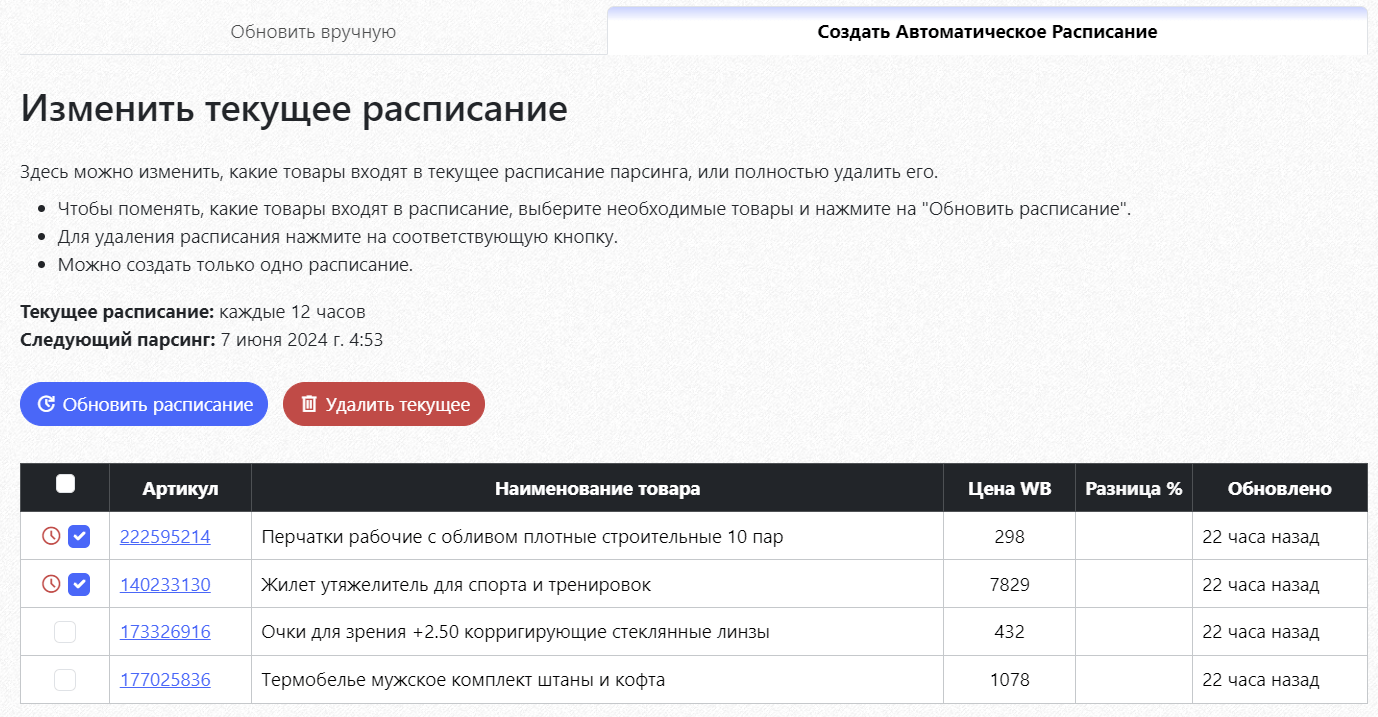
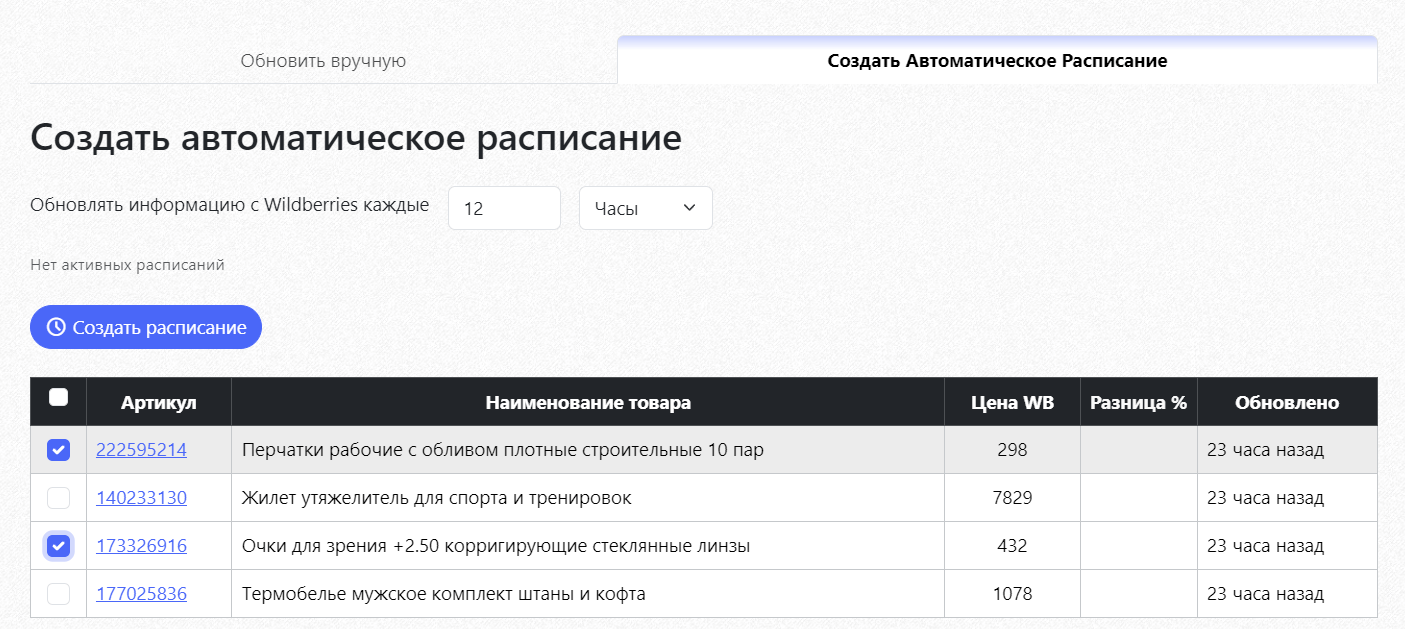
fix(homepage): update screenshots #3 for how does it work
The previous screenshot did not reflect the current state of the page.

diff --git a/main/templates/main/partials/homepage/how_does_it_work.html b/main/templates/main/partials/homepage/how_does_it_work.html
@@ -33,14 +33,14 @@
                     </div>
 
                 </li>
-                <li> Это откроет форму добавления артикулов.</li>
-                <li>Введите артикулы.</li>
+                <li> Это откроет форму добавления артикулов</li>
+                <li>Введите артикулы</li>
                 <li>
                     Нажмите
                     <button class="btn btn-primary rounded-pill disabled">Добавить</button>
                 </li>
                 <li>
-                    Дождитесь окончания первого парсинга.
+                    Дождитесь окончания первого парсинга
                 </li>
             </ul>
 
@@ -76,8 +76,11 @@
         </div>
         <div class="ol-sm-5 col-md-5 order-3 h-auto">
             <h2>Создайте расписание</h2>
-            <p>В поле формы введите необходимое число и выберите из списка нужный период. Например,
-                "Обновлять информацию с Wildberries каждые 12 часов".</p>
+            <ul>
+                <li>В поле формы выберите интервал</li>
+                <li>Выберите необходимые товары в таблице</li>
+                <li>Кликните "Создать расписание"</li>
+            </ul>
             <p>А теперь попробуйте все сами, запустив демо.</p>
 
             <span x-data="{ loading: false, loadingMessage: 'Загружаем . . .' }">
